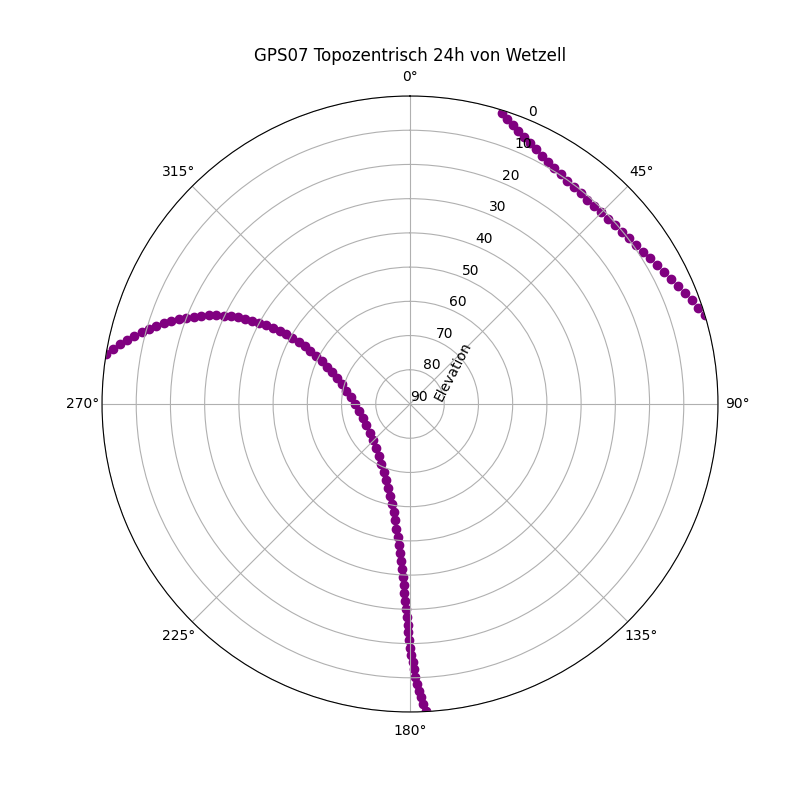
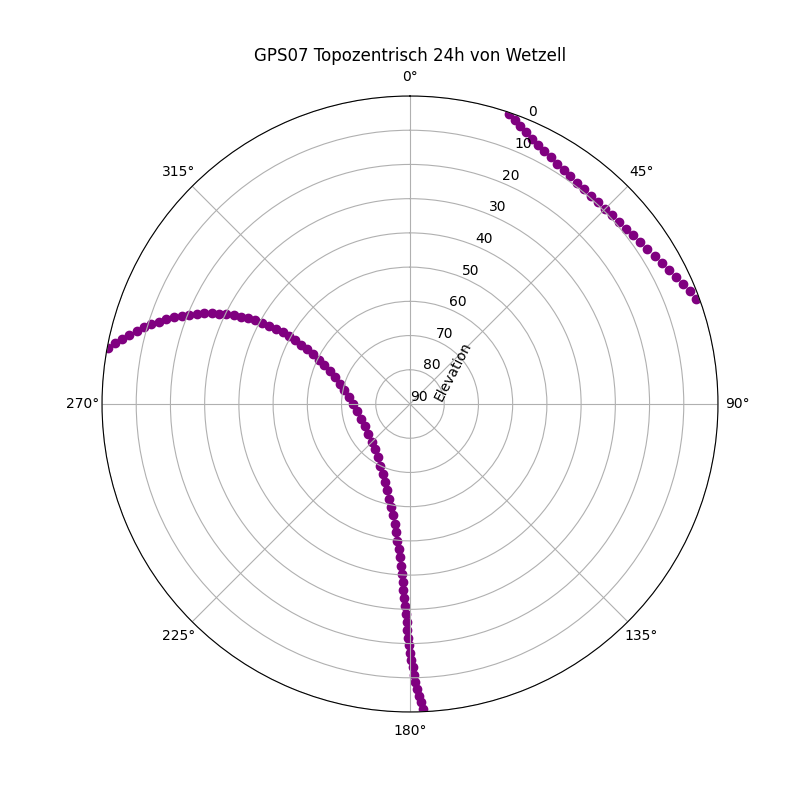
height of Wettzell is taken into account

diff --git a/tasks.py b/tasks.py
@@ -95,7 +95,7 @@ def intertialToTopo(coordinates, satellite):
 
         n.append(c2[0,0])
         e.append(c2[1,0])
-        u.append(c2[2,0])
+        u.append(c2[2,0] - constants.WETTZELL["h"]) #up is h of Wettzell smaller (Wettzell is "closer" to satellite)
 
         if satellite == "Lageos1": t += 120
         elif satellite == "TEST": t += 2400
